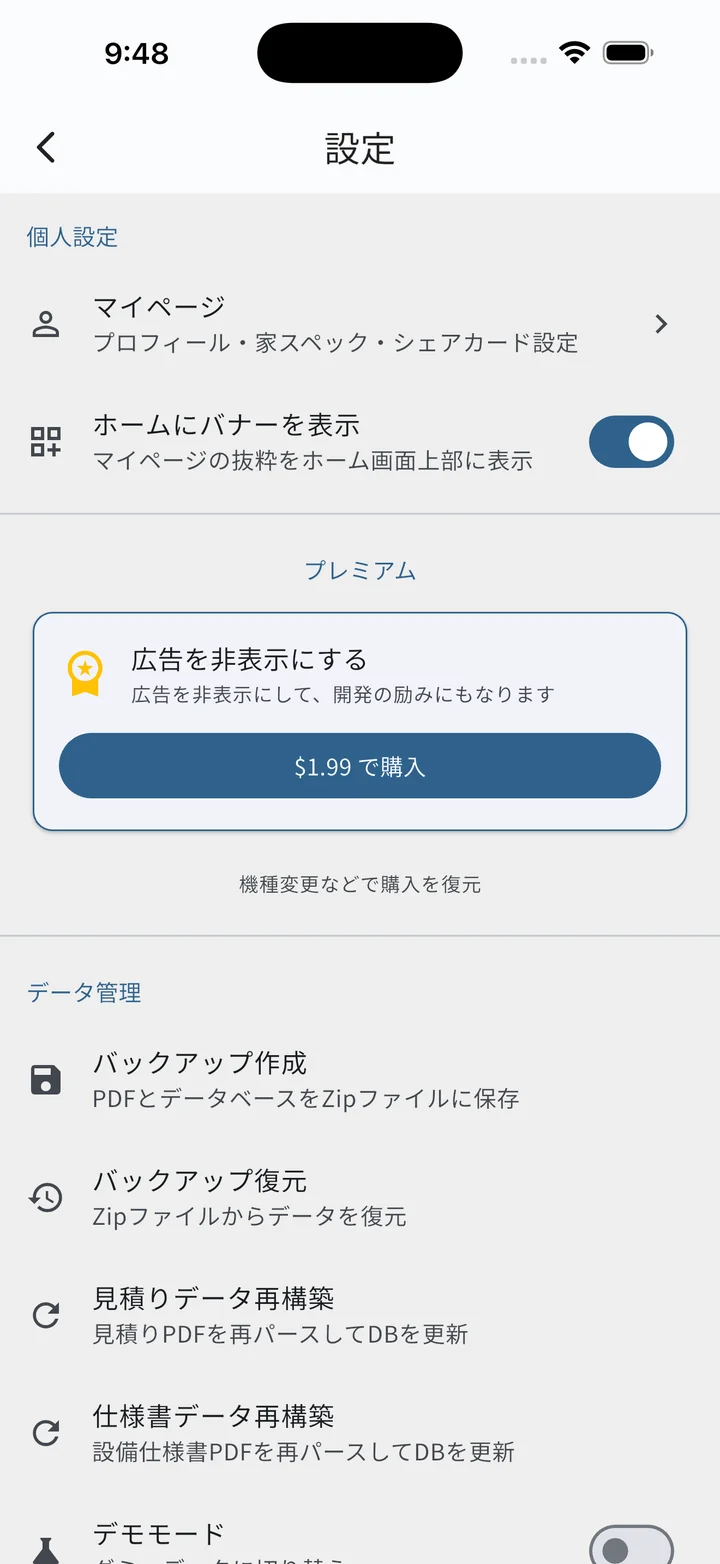
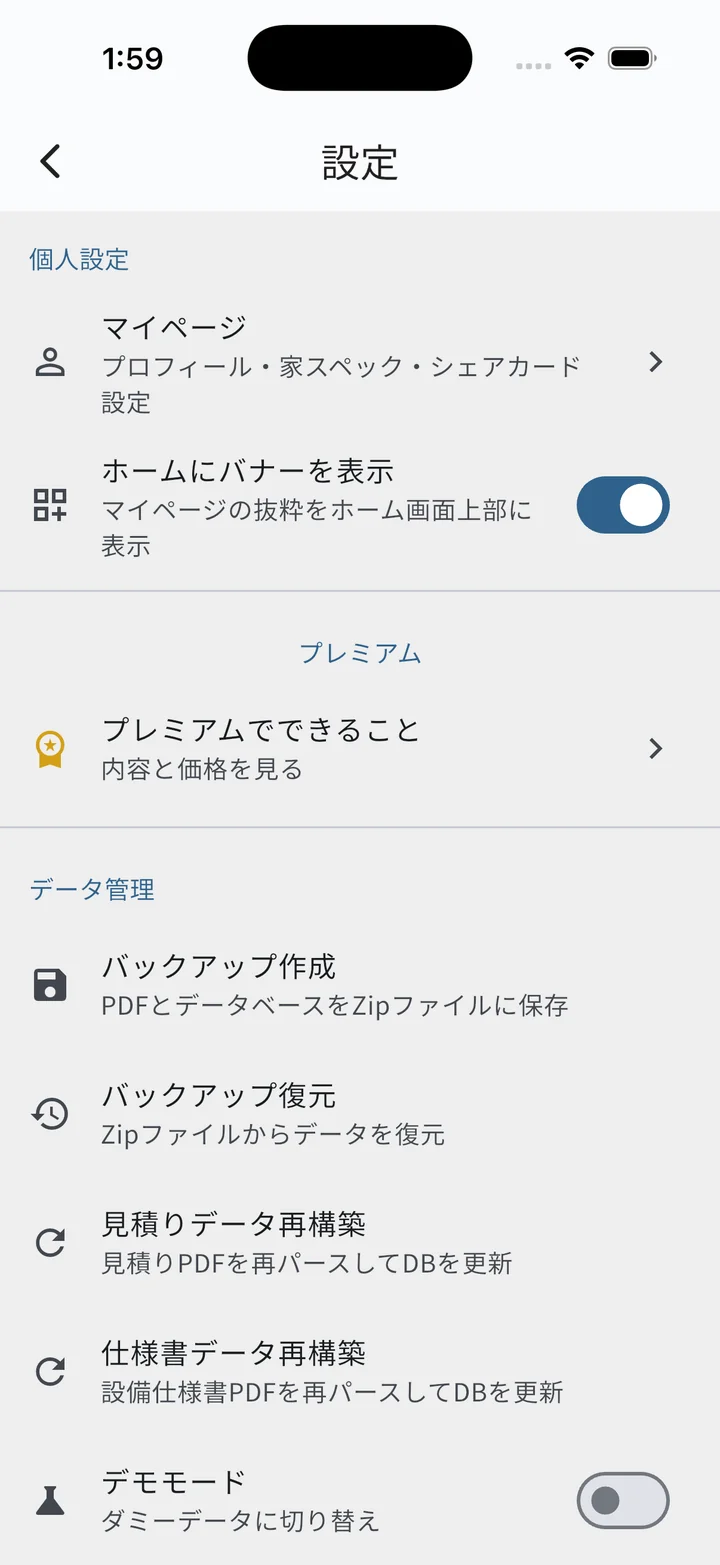
docs: マニュアルに家族共有とプレミアムの画面を追加、記述を実装に合わせて是正
- 家族と共有: 入口・表示名とアイコン・招待コード・参加の確認と承認待ち・
  共有中の当番表・担当・通知の範囲・メンバー管理の画面を追加
- プレミアム: 案内ページの画像に差し替え（旧購入カードの画像を削除）、
  設定タイルからの導線と特典 2 件の説明に更新
- オンボーディング: 最初のモード選択を追加し、最終ページを撮り直し
- 是正: 通知の範囲の選択肢名 / 一覧上部の帯の見え方 / 更新のお知らせの時刻 /
  設定のセクション構成と操作リファレンス

diff --git a/docs/manual.html b/docs/manual.html
@@ -214,6 +214,7 @@
   figure.shot-phone img{max-height:520px;width:auto;max-width:100%}
   /* スマホ画面の縦長スクショ（フル・タイル・ダイアログ）にフレーム風装飾 */
   figure.shot-phone img[height="1564"],
+  figure.shot-phone img[height="1565"],
   figure.shot-phone img[height="1600"],
   figure.shot-phone img[height="1557"],
   figure.shot-phone img[height="1523"],
@@ -960,25 +961,31 @@
 <p>初回起動時は、以下の順で画面が遷移します。</p>
 <ol class="steps">
   <li><strong>スプラッシュ画面</strong><p>アプリのロゴが表示されます。</p></li>
-  <li><strong>オンボーディング（チュートリアル）</strong><p>アプリの使い方を紹介する5ページのスライド。左右スワイプまたはページ下のドットで移動できます。各ページ下部に「スキップ」「次へ」ボタン、最終ページで「はじめる」をタップすると完了します。</p></li>
-  <li><strong>ホーム画面（家づくりモード）</strong><p>初期状態は家づくりモード。入居済みの方は設定画面から暮らしモードに切り替えてください。</p></li>
+  <li><strong>今の状況をたずねる画面</strong><p>「家づくり中」「入居後」のどちらかを選びます。選んだ内容に合わせてホーム画面の構成（家づくりモード／暮らしモード）が決まります。あとから設定でいつでも変更できます。</p></li>
+  <li><strong>オンボーディング（チュートリアル）</strong><p>アプリの使い方を紹介するスライド。左右スワイプまたはページ下のドットで移動できます。各ページ下部に「スキップ」「次へ」ボタン、最終ページで「はじめる」をタップすると完了します。</p></li>
+  <li><strong>ホーム画面</strong><p>選んだモードのホーム画面が開きます。モードは設定画面から切り替えられます。</p></li>
 </ol>
 
 <h3 id="onboarding">オンボーディング（チュートリアル）</h3>
-<p>5ページ構成のアプリ紹介スライドです。初回起動後に自動表示されるほか、<strong>設定 → チュートリアルを再表示</strong> からいつでも再確認できます。</p>
-<p>ページ構成：</p>
+<p>アプリ紹介のスライドです。初回起動後に自動表示されるほか、<strong>設定 → チュートリアルを再表示</strong> からいつでも再確認できます。最初に「今の状況を教えてください」で <strong>家づくり中</strong> か <strong>入居後</strong> を選び、選んだ内容に合わせて紹介するページが変わります。</p>
+<p><strong>「家づくり中」を選んだとき</strong>（5ページ）：</p>
 <ol>
   <li><strong>書類を取り込む</strong>：PDFの取り込みとドキュメント管理の紹介</li>
   <li><strong>図面をチェック</strong>：CAD差分の赤青色分けと位置合わせの紹介</li>
   <li><strong>見積り・仕様書を比較</strong>：推移表と2版比較の紹介</li>
   <li><strong>メモを残す</strong>：画面に直接ピン留めするウチメモ+の紹介</li>
-  <li><strong>プライバシーについて</strong>：書類データは端末内のみで扱い、「家族と共有」をはじめた場合のみ当番表や表示名など共有と通知に必要な情報が同期される、という説明</li>
+  <li><strong>はじめましょう</strong>：書類データは端末内のみで扱い、「家族と共有」をはじめた場合のみ、当番表や表示名など共有と通知に必要な情報が同期される、という説明</li>
 </ol>
+<p><strong>「入居後」を選んだとき</strong>（4ページ）：電気のお得が一目でわかる／お手入れを忘れない／予定や記念日を見逃さない／はじめましょう</p>
 
 <div class="shot-grid">
   <figure class="shot-phone">
     <img src="images/splash.webp" width="720" height="1564" alt="スプラッシュ画面" loading="lazy" decoding="async">
     <figcaption>起動時スプラッシュ</figcaption>
+  </figure>
+  <figure class="shot-phone">
+    <img src="images/onboarding_00_mode.webp" width="720" height="1564" alt="今の状況を選ぶ画面（家づくり中／入居後）" loading="lazy" decoding="async">
+    <figcaption>今の状況を選ぶ</figcaption>
   </figure>
   <figure class="shot-phone">
     <img src="images/onboarding_01.webp" width="720" height="1564" alt="オンボーディング 1/5：書類を取り込む" loading="lazy" decoding="async">
@@ -997,8 +1004,8 @@
     <figcaption>4. メモを残す</figcaption>
   </figure>
   <figure class="shot-phone">
-    <img src="images/onboarding_05.webp" width="720" height="1564" alt="オンボーディング 5/5：プライバシーについて" loading="lazy" decoding="async">
-    <figcaption>5. プライバシーについて</figcaption>
+    <img src="images/onboarding_05.webp" width="720" height="1565" alt="オンボーディング 5/5：はじめましょう（データの扱いの説明）" loading="lazy" decoding="async">
+    <figcaption>5. はじめましょう（データの扱い）</figcaption>
   </figure>
 </div>
 
@@ -3324,7 +3331,7 @@
   <li><strong>ビュー切替</strong>：<strong>緊急度 / 部屋ごと</strong> の2種類</li>
   <li><strong>緊急度ビュー</strong>：「今日実施」「今すぐ」「もうすぐ」「余裕あり」のセクションに自動分類。「もうすぐ」に入るタイミングは項目の周期に応じて自動で変わります（周期が短い項目ほど直前に表示）</li>
   <li><strong>部屋ごとビュー</strong>：割り当てた部屋単位のグループ表示</li>
-  <li><strong>一緒にお手入れする人（上部の帯）</strong>：<a href="#maintenance-family">家族と共有</a>中のときだけ表示。メンバー名が並び、タップすると共有の管理画面が開きます</li>
+  <li><strong>一緒にお手入れする人（上部の帯）</strong>：<a href="#maintenance-family">家族と共有</a>中のときだけ表示。メンバーのアイコンが並び、タップすると共有の管理画面が開きます</li>
 </ul>
 
 <h4>カードの見方</h4>
@@ -3341,7 +3348,7 @@
     <figcaption>部屋ごとビュー</figcaption>
   </figure>
   <figure class="shot-phone">
-    <img src="images/maintenance_menu.webp" width="720" height="1564" alt="右上メニュー（部屋を管理／消耗品を管理／通知時刻）" loading="lazy" decoding="async">
+    <img src="images/maintenance_menu.webp" width="720" height="1565" alt="右上メニュー（部屋を管理／消耗品を管理／通知時刻／通知の範囲／家族と共有）" loading="lazy" decoding="async">
     <figcaption>右上メニュー</figcaption>
   </figure>
 </div>
@@ -3467,6 +3474,7 @@
   <li><strong>何日前に通知</strong>：通知が始まる日を予定日の◯日前にずらせます（0 なら予定日当日から）</li>
   <li><strong>通知時刻</strong>：すべての項目で共通です。右上メニューの「通知時刻」または編集画面から変更できます（はじめは 9:00）</li>
   <li><strong>通知をタップ</strong>すると、その項目の詳細シートが直接開きます</li>
+  <li><strong>通知の範囲</strong>：右上メニューの「通知の範囲」で、この端末に届く通知をまとめて切り替えられます。ふだんは「通知する」「通知しない」の 2 択で、<a href="#maintenance-family">家族と共有</a>中はここに「自分の担当だけ」が加わります（端末ごとの設定）</li>
 </ul>
 
 <div class="shot-grid">
@@ -3487,12 +3495,23 @@
 <h3 id="maintenance-family">家族と共有</h3>
 <p>お手入れ当番表のデータ（項目・部屋・消耗品と在庫・実施の記録・担当）を、家族やパートナーなど一緒に住まいをお手入れする人と同じ画面で使えます。参加した端末どうしで自動的に同期されます。</p>
 <ul>
-  <li><strong>入口は3つ</strong>：設定 &gt; 家族と共有 ／ お手入れ当番表の右上メニュー &gt; 家族と共有 ／ 共有中は一覧上部の帯（「一緒にお手入れする人: ◯◯」）をタップ</li>
-  <li><strong>共有をはじめる人（管理者）だけプレミアム（広告なし）が必要</strong>です。招待された人は購入しなくても参加できます</li>
+  <li><strong>入口は3つ</strong>：設定 &gt; 家族と共有 ／ お手入れ当番表の右上メニュー &gt; 家族と共有 ／ 共有中は一覧上部に出るメンバーのアイコンの帯をタップ</li>
+  <li><strong>共有をはじめる人（管理者）だけ<a href="#settings-premium">プレミアム</a>が必要</strong>です。招待された人は購入しなくても参加できます</li>
   <li><strong>最大 6 人</strong>まで参加できます</li>
   <li>同期されるのは、お手入れ当番表のデータと家族内の表示名・アイコンなど、共有と通知に必要な情報です。図面・見積り・メモなどほかのデータは端末内のままです。詳しくは <a href="https://smartolio.jp/privacy/ichijo-unofficial-app/" target="_blank" rel="noopener">プライバシーポリシー</a> をご覧ください</li>
   <li>デモモードでは使えません</li>
 </ul>
+
+<div class="shot-grid">
+  <figure class="shot-phone">
+    <img src="images/family_share_off.webp" width="720" height="1565" alt="家族と共有の画面（共有していない状態。共有をはじめる／招待から参加の2択）" loading="lazy" decoding="async">
+    <figcaption>共有していない状態</figcaption>
+  </figure>
+  <figure class="shot-phone">
+    <img src="images/family_share_on.webp" width="720" height="1565" alt="家族と共有の画面（共有中。メンバーのチップと操作メニュー）" loading="lazy" decoding="async">
+    <figcaption>共有中（2人で共有）</figcaption>
+  </figure>
+</div>
 
 <h4>はじめかた（管理者）</h4>
 <ol>
@@ -3502,6 +3521,17 @@
   <li>参加する人が申請すると、<strong>参加リクエストを確認</strong>に届きます（端末の通知でもお知らせします）。名前を確かめて<strong>承認する</strong>か<strong>断る</strong>を選びます</li>
 </ol>
 <p>招待コードの発行と参加リクエストの承認は、管理者に限らずメンバーの誰でもできます。</p>
+
+<div class="shot-grid">
+  <figure class="shot-phone">
+    <img src="images/family_name_avatar.webp" width="720" height="1565" alt="家族内の表示名とアイコンを決める入力画面" loading="lazy" decoding="async">
+    <figcaption>表示名とアイコンを決める</figcaption>
+  </figure>
+  <figure class="shot-phone">
+    <img src="images/family_invite_qr.webp" width="720" height="1565" alt="招待コードの画面。QRコードと有効期限、下に届いた参加リクエスト" loading="lazy" decoding="async">
+    <figcaption>招待コードの発行と、届いた参加リクエスト<br><small>（QR とコードは伏せています）</small></figcaption>
+  </figure>
+</div>
 
 <h4>参加のしかた（招待された人）</h4>
 <ol>
@@ -3514,14 +3544,40 @@
   <p><strong>参加すると、この端末のお手入れデータは家族の共有データに置き換わります。</strong>端末に入力済みの項目を残したいときは、その端末で「共有をはじめる」を選んで管理者になってください。</p>
 </div>
 
+<div class="shot-grid">
+  <figure class="shot-phone">
+    <img src="images/family_join_replace.webp" width="720" height="1564" alt="共有データへの置き換えを確認するダイアログ" loading="lazy" decoding="async">
+    <figcaption>参加の直前に出る確認</figcaption>
+  </figure>
+  <figure class="shot-phone">
+    <img src="images/family_join_waiting.webp" width="720" height="1564" alt="参加の承認を待っている画面" loading="lazy" decoding="async">
+    <figcaption>承認待ちの画面</figcaption>
+  </figure>
+</div>
+
 <h4>共有中にできること</h4>
 <ul>
-  <li><strong>担当</strong>：項目の編集画面で「決めない」「いつも同じ人」「持ち回り」から選べます。持ち回りにすると、カードに「次は◯◯さん」と表示され、実施を記録するたびに次の人へ回ります</li>
-  <li><strong>通知の範囲</strong>：右上メニューの「通知の範囲」で、この端末に届く通知を「通知する」「自分の担当だけ」「通知しない」から選べます。端末ごとの設定です</li>
-  <li><strong>家族の更新のお知らせ</strong>：家族の誰かがお手入れの予定を変えた日は、その日の夜にまとめて 1 通お知らせします。アプリを開くと、この端末の通知が最新の予定に合わせて組み直されます</li>
+  <li><strong>担当</strong>：項目の編集画面に「担当」が増えます。「決めない」「いつも同じ人」「持ち回り」から選べます。持ち回りは、まわす順番にメンバーをタップして決めます。担当が決まった項目はカードに「次は◯◯さん」と表示され、実施を記録するたびに次の人へ回ります</li>
+  <li><strong>通知の範囲</strong>：右上メニューの「通知の範囲」で、この端末に届く通知を「すべての項目」「自分の担当だけ」「通知しない」から選べます。端末ごとの設定です</li>
+  <li><strong>家族の更新のお知らせ</strong>：家族の誰かがお手入れの予定を変えた日は、その日の夜（19時ごろ）にまとめて 1 通お知らせします。アプリを開くと、この端末の通知が最新の予定に合わせて組み直されます</li>
   <li><strong>参加・退出のお知らせ</strong>：メンバーが参加・退出したときに通知します。タップするとメンバー一覧が開きます</li>
   <li><strong>名前とアイコンを変える</strong>：共有画面から、自分の表示名とアイコンをいつでも変更できます</li>
 </ul>
+
+<div class="shot-grid">
+  <figure class="shot-phone">
+    <img src="images/maintenance_family_band.webp" width="720" height="1565" alt="お手入れ当番表。上部にメンバーのアイコンの帯、カードに「次は◯◯さん」" loading="lazy" decoding="async">
+    <figcaption>共有中の一覧（上部の帯と担当の表示）</figcaption>
+  </figure>
+  <figure class="shot-phone">
+    <img src="images/maintenance_assignee.webp" width="720" height="1565" alt="項目の編集画面の担当。持ち回りでメンバーの順番を指定" loading="lazy" decoding="async">
+    <figcaption>担当を「持ち回り」にする</figcaption>
+  </figure>
+  <figure class="shot-phone">
+    <img src="images/maintenance_notify_scope.webp" width="720" height="1565" alt="通知の範囲のダイアログ（すべての項目／自分の担当だけ／通知しない）" loading="lazy" decoding="async">
+    <figcaption>通知の範囲（端末ごと）</figcaption>
+  </figure>
+</div>
 
 <h4>メンバーの管理と共有の終了</h4>
 <ul>
@@ -3532,8 +3588,19 @@
   <li><strong>この端末の共有情報を破棄</strong>：停止中の端末で、再開用の情報を消して完全にオフに戻します</li>
 </ul>
 
+<div class="shot-grid">
+  <figure class="shot-phone">
+    <img src="images/family_members.webp" width="720" height="1565" alt="メンバー一覧。管理者/自分のラベルと、長押しの案内" loading="lazy" decoding="async">
+    <figcaption>メンバー一覧</figcaption>
+  </figure>
+  <figure class="shot-phone">
+    <img src="images/family_kick_confirm.webp" width="720" height="1565" alt="メンバーを外す確認ダイアログ" loading="lazy" decoding="async">
+    <figcaption>名前を長押し → 外す</figcaption>
+  </figure>
+</div>
+
 <h3 id="maintenance-family-device-change">機種変更のとき</h3>
-<p>共有への参加は端末ごとに結びついているため、新しい端末には自動で引き継がれません。バックアップの復元でも共有は引き継がれず、「同期の再設定が必要です」の案内が出ます。その場合は「共有をオフにする」を選んでから、下の手順で参加し直してください。</p>
+<p>共有への参加は端末ごとに結びついているため、新しい端末には自動で引き継がれません。バックアップの復元でも共有は引き継がれず、「同期の再設定が必要です」の案内が出ます。その場合は「再設定」から「共有をオフにする」を選んでから、下の手順で参加し直してください。</p>
 <ul>
   <li><strong>メンバーの場合</strong>：旧端末で<strong>共有から退出</strong>してから、新端末で<strong>招待から参加</strong>します。旧端末で退出し忘れたときは、管理者に旧端末のメンバーを外してもらってください</li>
   <li><strong>管理者の場合</strong>：旧端末で<strong>全員を外して退出</strong>して共有をいったん終了し、新端末で<strong>共有をはじめる</strong>から作り直して、家族を招待し直してください。各メンバーのデータはそれぞれの端末に残ります</li>
@@ -3548,7 +3615,7 @@
   <div class="action-row"><strong>ダッシュボードをタップ</strong><span>「今すぐ」「在庫わずか」で絞り込み（再タップで解除）</span></div>
   <div class="action-row"><strong>緊急度／部屋ごと</strong><span>一覧の表示切替</span></div>
   <div class="action-row"><strong>＋ボタン</strong><span>お手入れの追加（プリセット／カスタム）</span></div>
-  <div class="action-row"><strong>右上メニュー</strong><span>部屋を管理／消耗品を管理／通知時刻／通知の範囲（共有中）／家族と共有</span></div>
+  <div class="action-row"><strong>右上メニュー</strong><span>部屋を管理／消耗品を管理／通知時刻／通知の範囲／家族と共有</span></div>
   <div class="action-row"><strong>一覧上部の帯をタップ</strong><span>（共有中）メンバーの管理画面を開く</span></div>
   <div class="action-row"><strong>メンバー名を長押し</strong><span>（管理者）メンバーを外す</span></div>
   <div class="action-row"><strong>シートのタイトル右アイコン</strong><span>編集（鉛筆）／削除（ゴミ箱）</span></div>
@@ -3570,7 +3637,7 @@
 </ol>
 
 <figure class="shot-phone">
-  <img src="images/settings_show_home_banner.webp" width="720" height="1564" alt="設定画面のマイページセクション（マイページ項目とホームバナー表示スイッチ）" loading="lazy" decoding="async">
+  <img src="images/settings_show_home_banner.webp" width="720" height="1565" alt="設定画面のマイページセクション（マイページ項目とホームバナー表示スイッチ）" loading="lazy" decoding="async">
   <figcaption>設定画面 マイページセクション（マイページ項目 + バナー表示スイッチ）</figcaption>
 </figure>
 
@@ -3872,7 +3939,7 @@
     <figcaption>ホームから「設定」タイルをタップ</figcaption>
   </figure>
   <figure class="shot-phone">
-    <img src="images/settings.webp" width="720" height="1564" alt="設定画面（上半分：個人設定／プレミアム／データ管理）" loading="lazy" decoding="async">
+    <img src="images/settings.webp" width="720" height="1565" alt="設定画面（上半分：個人設定／プレミアム／データ管理）" loading="lazy" decoding="async">
     <figcaption>設定 上半分</figcaption>
   </figure>
   <figure class="shot-phone">
@@ -3884,8 +3951,8 @@
 <p>設定画面は 5 つのセクションで構成されています。</p>
 <ol>
   <li><strong>個人設定</strong>：マイページ、ホームバナー表示</li>
-  <li><strong>プレミアム</strong>：広告非表示の購入・復元</li>
-  <li><strong>データ管理</strong>：バックアップ、復元、データ再構築、デモモード</li>
+  <li><strong>プレミアム</strong>：内容と価格の案内ページへの入口</li>
+  <li><strong>データ管理</strong>：バックアップ、復元、データ再構築、デモモード、家族と共有</li>
   <li><strong>表示</strong>：モード切替、カウンター表示、テーマ、言語</li>
   <li><strong>アプリ</strong>：レビュー、フィードバック、チュートリアル、マニュアル、バージョン、ライセンス</li>
 </ol>
@@ -3893,14 +3960,14 @@
 <h3 id="settings-premium">プレミアム</h3>
 <p>買い切り型の課金です（月額ではありません）。設定の「プレミアムでできること」タイルをタップすると案内ページが開き、内容と価格を確かめてから購入できます。プレミアムでできることは次の 2 つです。</p>
 <ul>
+  <li><strong>家族と共有</strong>：お手入れ当番表の共有を「はじめる」ことができます。購入が必要なのは共有をはじめる 1 人だけで、招待された家族は無料のまま参加できます → <a href="#maintenance-family">家族と共有</a></li>
   <li><strong>広告を非表示</strong>：アプリ内の広告が表示されなくなります</li>
-  <li><strong>家族と共有</strong>：お手入れ当番表の家族共有を「はじめる」ことができます。購入が必要なのは共有をはじめる 1 人だけで、招待された家族は無料のまま参加できます → <a href="#maintenance-family">家族と共有</a></li>
 </ul>
+<p>案内ページの操作は次のとおりです。</p>
 <ul>
-  <li><strong>購入ボタン</strong>：「◯◯円｜プレミアムにする」をタップするとストアの購入フローへ。購入後は案内ページが「プレミアムをご利用中です」の表示に切り替わります</li>
-  <li><strong>機種変更などで購入を復元</strong>：同じ Apple ID／Google アカウントで再インストールした場合、タップで購入状態を復元</li>
+  <li><strong>購入</strong>：画面下部に固定表示される「◯◯円｜プレミアムにする」をタップするとストアの購入フローへ進みます。購入後は案内ページが「プレミアムをご利用中です」の表示に切り替わり、ホーム画面のタイトル横に「Premium」バッジが出ます</li>
+  <li><strong>機種変更のときは「購入を復元」</strong>：購入ボタンの下にあります。同じ Apple ID／Google アカウントで再インストールした場合、タップで購入状態を復元できます</li>
   <li>購入しなくても、登録済みのデータが見られなくなることはありません</li>
-  <li>設定のタイルに「新しく使えることがあります」と出るのは、案内ページにまだ見ていない項目があるときです。開くと消えます</li>
 </ul>
 
 <div class="callout info">
@@ -3908,17 +3975,9 @@
 </div>
 
 <div class="shot-grid">
-  <figure class="shot-phone">
-    <img src="images/settings_premium.webp" width="720" height="682" alt="プレミアム購入カード（未購入状態）" loading="lazy" decoding="async">
-    <figcaption>未購入状態</figcaption>
-  </figure>
-  <figure class="shot-phone">
-    <img src="images/settings_premium_confirm.webp" width="720" height="885" alt="プレミアム購入確認ダイアログ" loading="lazy" decoding="async">
-    <figcaption>購入確認ダイアログ</figcaption>
-  </figure>
-  <figure class="shot-phone">
-    <img src="images/settings_premium_active.webp" width="720" height="507" alt="プレミアム有効状態（購入済み）" loading="lazy" decoding="async">
-    <figcaption>購入済み（有効）</figcaption>
+  <figure>
+    <img src="images/premium_page.webp" width="720" height="1210" alt="プレミアム案内ページ。家族と共有・広告を非表示の2つの特典カード" loading="lazy" decoding="async">
+    <figcaption>プレミアム案内ページ（説明部分）<br><small>価格と購入ボタンは画面下部に固定表示されます</small></figcaption>
   </figure>
   <figure class="shot-phone">
     <img src="images/home_premium_badge.webp" width="720" height="653" alt="ホーム画面の Premium バッジ" loading="lazy" decoding="async">
@@ -3980,7 +4039,12 @@
 </table>
 
 <h3 id="settings-family">家族と共有</h3>
-<p>お手入れ当番表を家族と同じ画面で使うための入口です。共有の状態（参加の承認待ち・承認済み・停止中など）もこのタイルに表示され、タップすると共有の管理画面が開きます。使い方は <a href="#maintenance-family">お手入れ当番表 &gt; 家族と共有</a> をご覧ください。</p>
+<p>お手入れ当番表を家族と同じ画面で使うための入口です。データ管理セクションの一番下にあります。共有の状態（参加の承認待ち・承認済み・停止中など）もこのタイルに表示され、タップすると共有の管理画面が開きます。使い方は <a href="#maintenance-family">お手入れ当番表 &gt; 家族と共有</a> をご覧ください。</p>
+
+<figure>
+  <img src="images/settings_family_tile.webp" width="720" height="167" alt="設定画面の「家族と共有」タイル" loading="lazy" decoding="async">
+  <figcaption>設定 &gt; データ管理 の一番下</figcaption>
+</figure>
 
 <h3 id="settings-mode">モード切替</h3>
 <p>家づくりモード ↔ 暮らしモードを切り替えるトグルスイッチ。切り替えるとホーム画面のタイル構成、サイドメニュー、便利ツール一覧が変わります。</p>
@@ -4088,8 +4152,9 @@
 
 <h3 id="settings-actions">操作リファレンス</h3>
 <div class="action-box">
-  <div class="action-row"><strong>プレミアム購入ボタン</strong><span>広告非表示を購入（買い切り）</span></div>
+  <div class="action-row"><strong>プレミアムでできること</strong><span>案内ページを開く（内容・価格・購入）</span></div>
   <div class="action-row"><strong>購入を復元</strong><span>機種変更後に購入状態を復元</span></div>
+  <div class="action-row"><strong>家族と共有</strong><span>共有の管理画面を開く</span></div>
   <div class="action-row"><strong>バックアップ作成タップ</strong><span>Zip作成→共有メニュー</span></div>
   <div class="action-row"><strong>バックアップ復元タップ</strong><span>ファイル選択→確認→復元→再起動（iOSは手動終了）</span></div>
   <div class="action-row"><strong>再構築タップ</strong><span>確認→全PDFを再パース</span></div>
@@ -4169,10 +4234,10 @@
 <h3 id="troubleshooting-family">家族共有で困ったとき</h3>
 <ul>
   <li><strong>招待コードが通らない／承認できない</strong>：招待コードは発行から 3 日で期限切れになります。新しい招待コードを発行してもらってください。「先に進めていない参加の申請があります」と出るときは、共有画面で申請を取り下げてからやり直してください</li>
-  <li><strong>「同期の再設定が必要です」と出る</strong>：バックアップの復元などで端末の同期情報が変わったときの案内です。「共有をオフにする」を選んでから、新しい招待で参加し直してください → <a href="#maintenance-family-device-change">機種変更のとき</a></li>
+  <li><strong>「同期の再設定が必要です」と出る</strong>：バックアップの復元などで端末の同期情報が変わったときの案内です。「再設定」をタップして「共有をオフにする」を選んでから、新しい招待で参加し直してください → <a href="#maintenance-family-device-change">機種変更のとき</a></li>
   <li><strong>「共有を一時停止しました」と出る</strong>：しばらく同期できなかったときの安全装置です。表示された「停止して再開」または「もう一度試す」で復帰できます。まだ送っていない変更は失われることがあります</li>
   <li><strong>「家族共有の処理が完了していません」と出る</strong>：通信できる状態で「再開」を押してください。直らないときはアプリを起動し直してください</li>
-  <li><strong>家族の通知が来ない</strong>：右上メニューの「通知の範囲」が「通知しない」になっていないか、端末の通知の許可がオフになっていないかを確認してください。家族の更新のお知らせは、その日の夜にまとめて届きます</li>
+  <li><strong>家族の通知が来ない</strong>：右上メニューの「通知の範囲」が「通知しない」になっていないか、端末の通知の許可がオフになっていないかを確認してください。家族の更新のお知らせは、その日の夜（19時ごろ）にまとめて届きます</li>
   <li><strong>停止中に入力した内容が消えた</strong>：仕様です。「共有を停止（この端末のみ）」中の変更は共有されず、再開すると家族の共有データに置き換わります</li>
 </ul>
 
